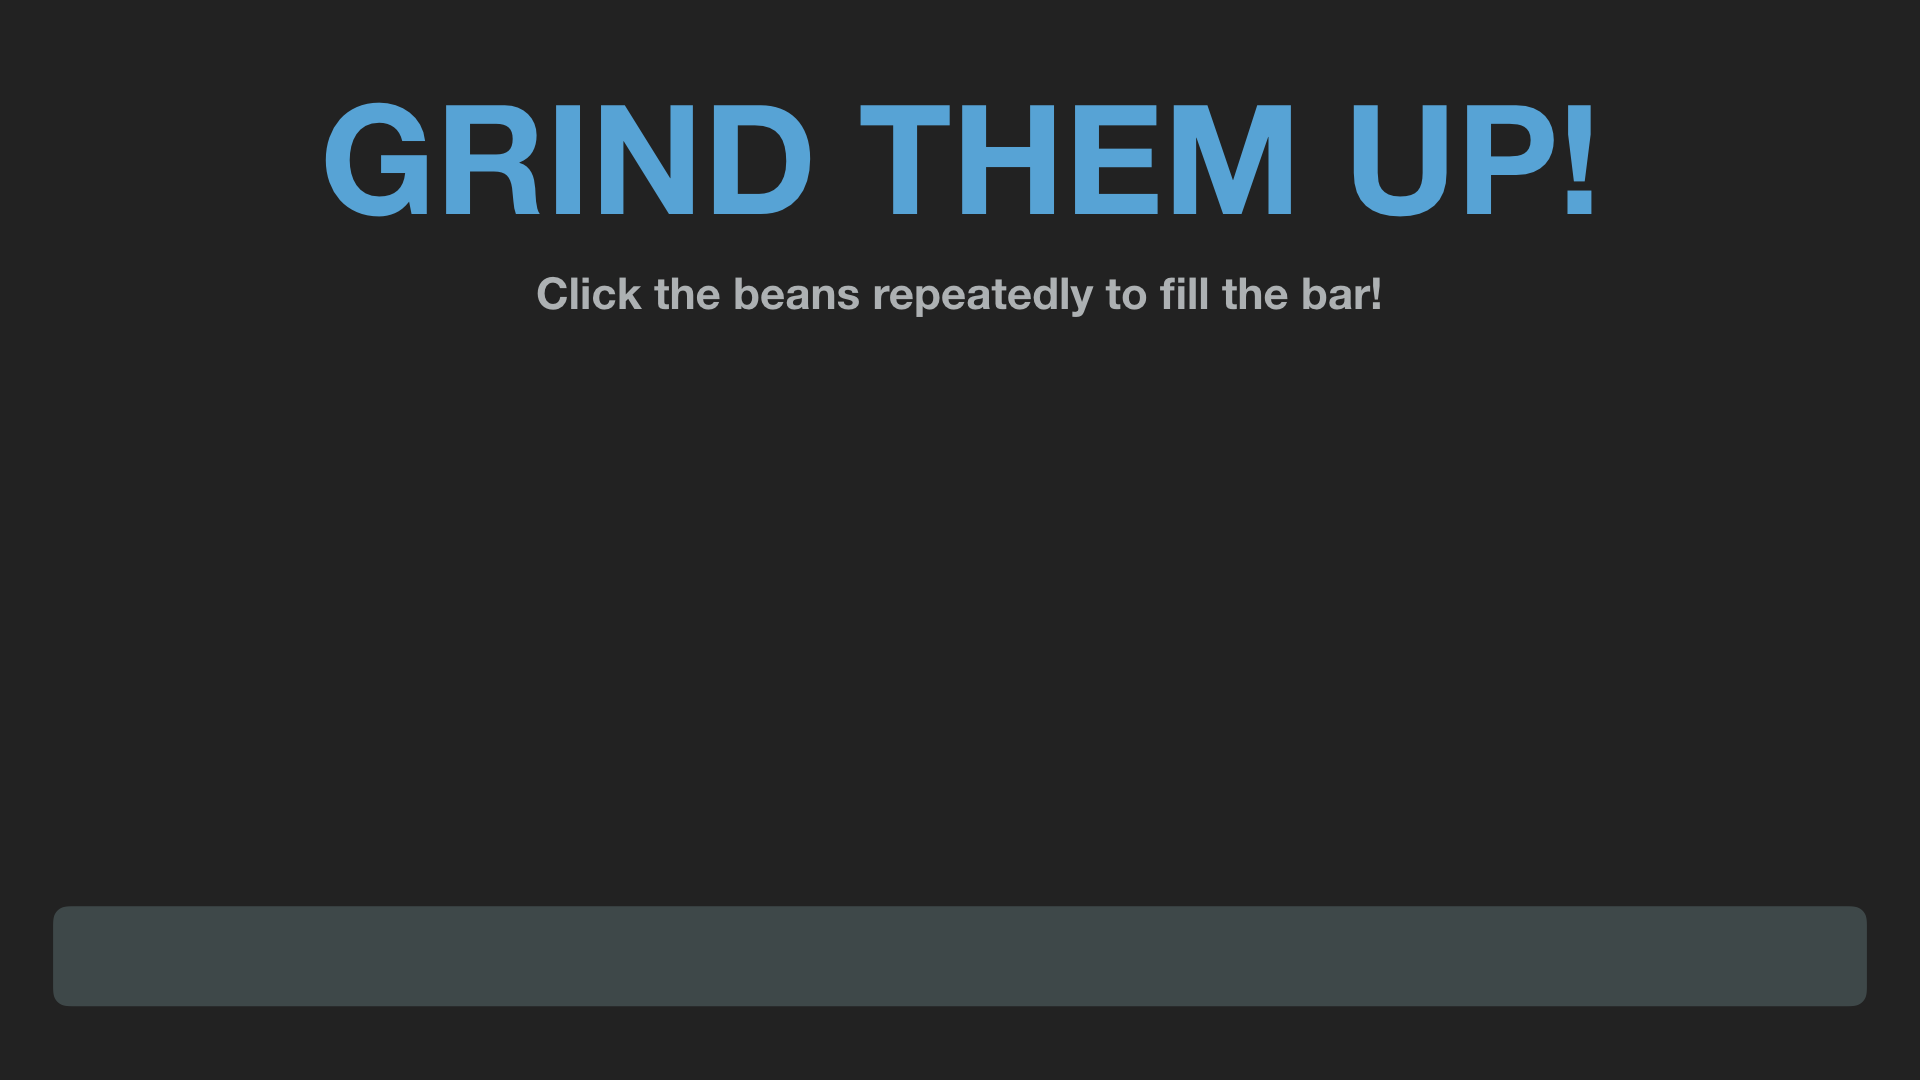
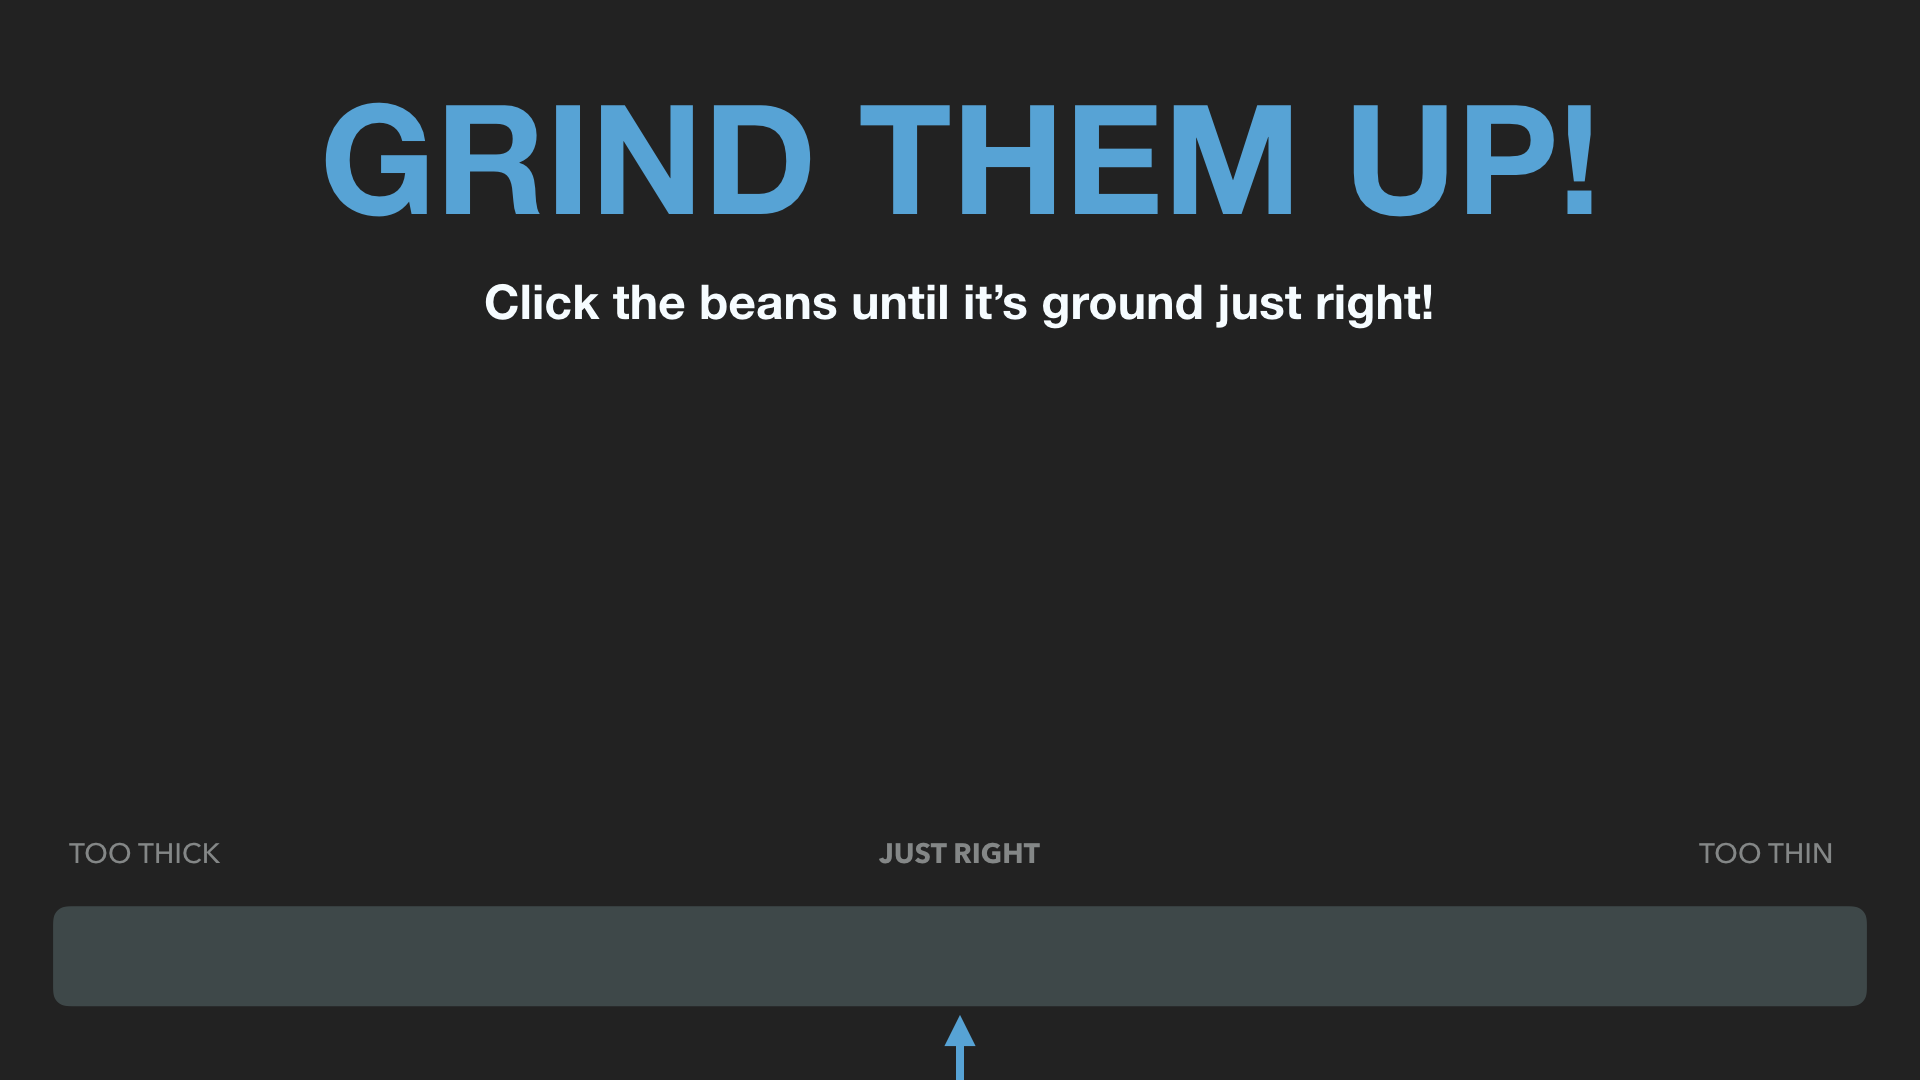
finished grind minigame + added scores object to minigame view

diff --git a/peony/views/minigame.html b/peony/views/minigame.html
@@ -6,24 +6,58 @@
 		<button class="beans beans3"></button>
 	</div>
 	<div class="beanGrind">
+		<div class="counter">10</div>
 		<div class="beanGrindBean">
 
 		</div>
+		<div class="progress-bar"></div>
 	</div>
 </div>
 
 <link href="views/minigame.css" type="text/css" rel="stylesheet">
 
 <script>
+
+	var minigameScores = {
+		"beans": false,
+		"grind": false,
+		"size": false,
+		"milk": false,
+		"flavouring": false
+	}
+
 	_f.music.changeBGM('minigame');
 
 	$('.beans').on('click', function(){
 		$('.beanSelect').fadeOut(500, function(){
-			$('.beanGrind').fadeIn(500);
+			$('.beanGrind').fadeIn(500, function(){
+				var grindBar = setInterval(function(){
+					if($('.progress-bar').width() > 0) {
+						$('.progress-bar').width($('.progress-bar').width()-1);
+					} else if($('.progress-bar').width() < 0) {
+						$('.progress-bar').width(0);
+					}
+				}, 10)
+				var counter = setInterval(function(){
+					$('.counter').text( parseInt($('.counter').text())-1 );
+				}, 1000);
+				setTimeout(function(){
+					clearInterval(grindBar);
+					clearInterval(counter);
+					minigameScores.grind = ($('.progress-bar').width() / 1770) * 100;
+				}, 10000);
+			});
 		});
 	});
 
 	$('.beanGrindBean').on('click', function(){
 		_f.music.playSFX('grind');
+
+		if($('.progress-bar').width()+100 < 1770) {
+			$('.progress-bar').width($('.progress-bar').width()+100);
+		} else {
+			$('.progress-bar').width(1770);
+		}
+
 	})
 </script>

diff --git a/peony/views/minigame.css b/peony/views/minigame.css
@@ -59,5 +59,22 @@
     background-repeat: no-repeat;
     position: absolute;
     left: 780px;
-    top: 380px;
+    top: 360px;
+}
+
+.progress-bar {
+	position: absolute;
+    height: 64px;
+    top: 924px;
+    left: 72px;
+    border-radius: 8px;
+	background-color: #34A5DA;
+}
+
+.counter {
+	position: absolute;
+    top: 48px;
+    right: 48px;
+    font-size: 96px;
+    color: white;
 }
